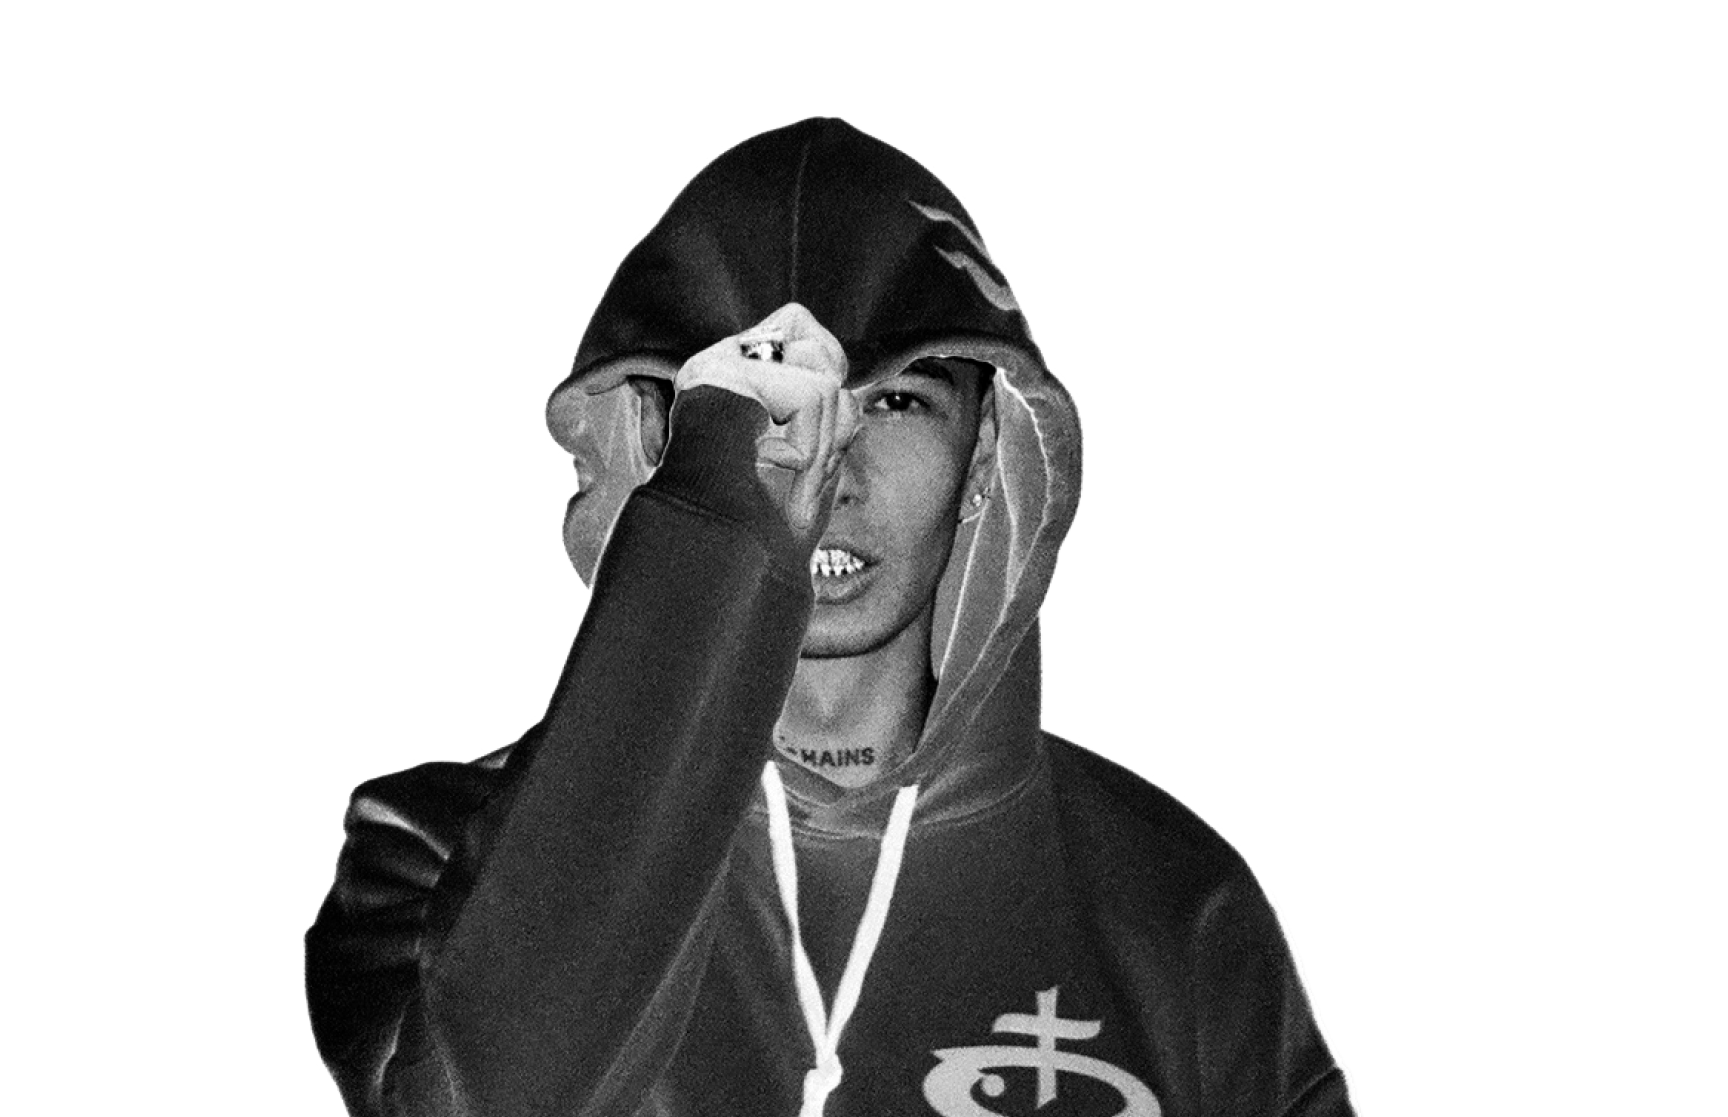
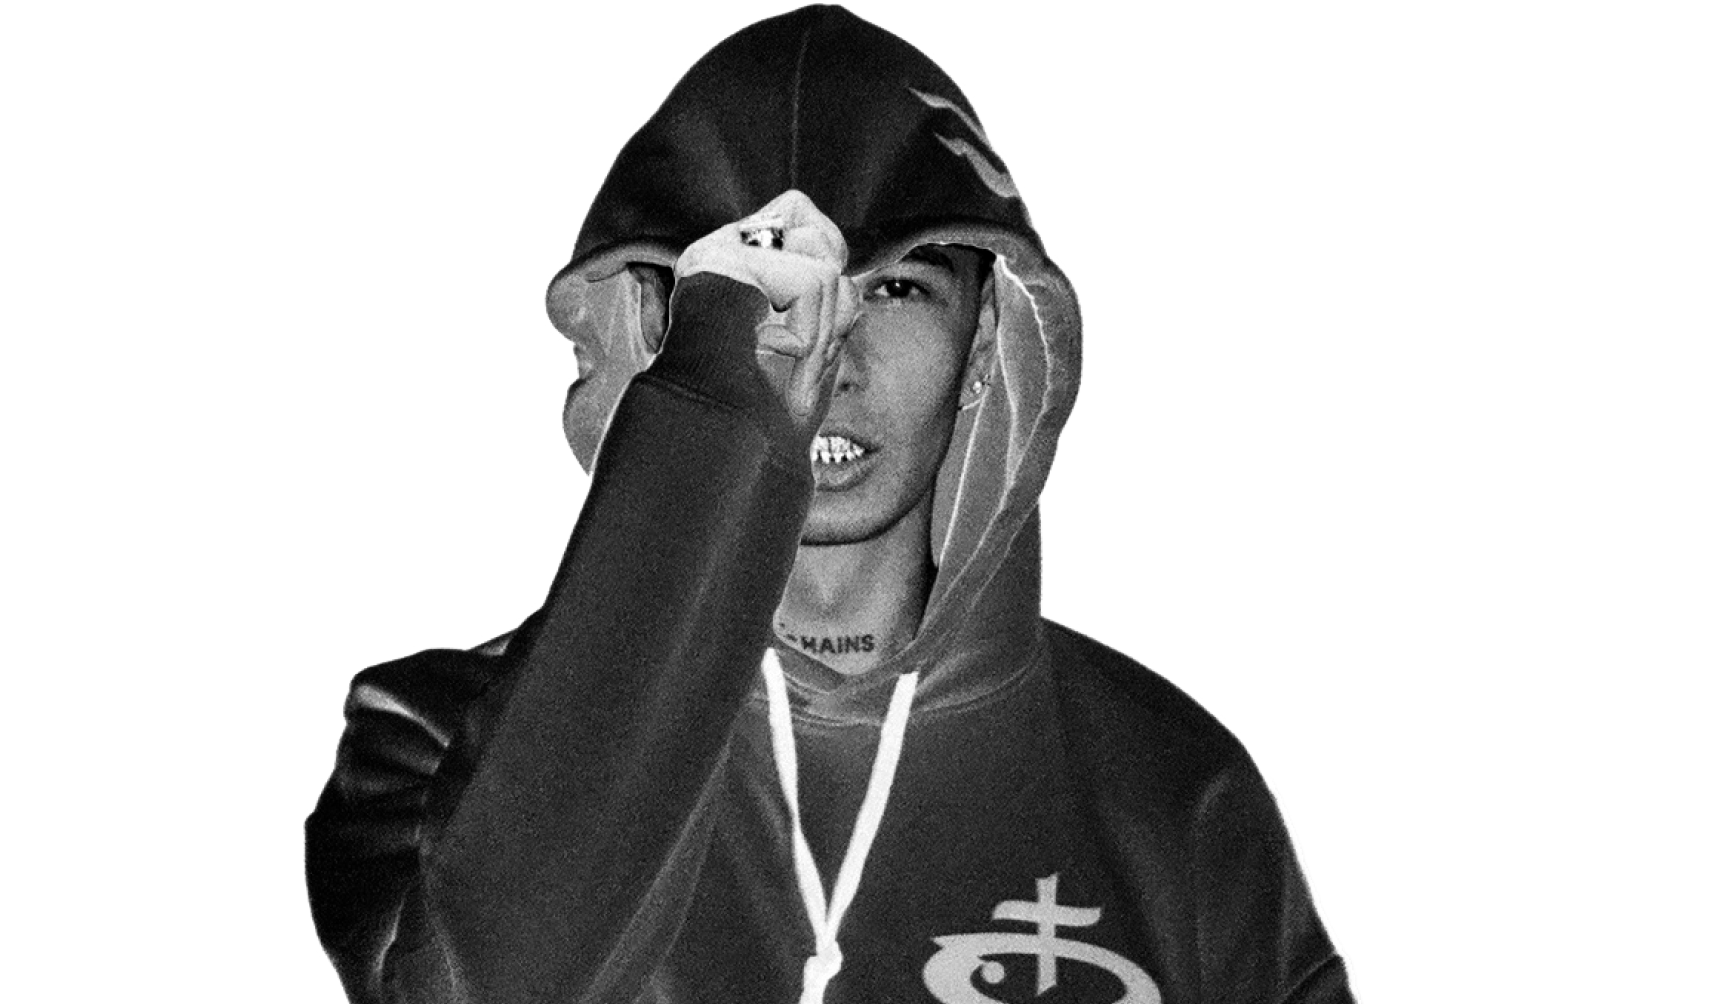
completed adaptive. scroll animation is in developing

diff --git a/index.html b/index.html
@@ -8,24 +8,34 @@
     <link rel="preconnect" href="https://fonts.googleapis.com">
     <link rel="preconnect" href="https://fonts.gstatic.com" crossorigin>
     <link href="https://fonts.googleapis.com/css2?family=Inter&family=Raleway:wght@300;400;500;700&display=swap" rel="stylesheet">
+    <link
+            rel="stylesheet"
+            href="https://cdnjs.cloudflare.com/ajax/libs/animate.css/4.1.1/animate.min.css"
+    />
 </head>
-<body class="Background">
-<section class="Banner Section_FullScreen">
-    <div class="Banner__Heading-Wrapper">
-        <h1 class="Banner__Heading">OBLADAET</h1>
-    </div>
-    <picture class="BannerPicture">
-        <source media="(max-width: 1024px)" srcset="images/Banner__Picture_Device_Mobile.png" type="image/png">
-        <source media="(min-width: 1025px)" srcset="images/Banner__Picture_Device_Desktop.png" type="image/png">
+<body class="Background Background_Unloaded">
+<section class="PreLoader"></section>
+<div class="Content">
+    <section class="Banner">
+        <div class="Banner__Heading-Wrapper">
+            <h1 class="Banner__Heading Banner__Heading_Unloaded">OBLADAET</h1>
+        </div>
+        <picture class="BannerPicture">
+            <source media="(max-width: 1024px)" srcset="images/Banner__Picture_Device_Mobile.png" type="image/png">
+            <source media="(min-width: 1025px)" srcset="images/Banner__Picture_Device_Desktop.png" type="image/png">
 
-        <img class="BannerPicture__Image" src="images/Banner__Picture_Device_Desktop.png" alt="banner">
-    </picture>
-    <picture class="Banner_ScrollIcon">
-        <source media="(max-width: 1024px)" srcset="images/scrollMobile.svg" type="image/png">
-        <source media="(min-width: 1025px)" srcset="images/scrollDesktop.svg" type="image/png">
+            <img class="BannerPicture__Image" src="images/Banner__Picture_Device_Desktop.png" alt="banner">
+        </picture>
+        <picture class="Banner_ScrollIcon">
+            <source media="(max-width: 1024px)" srcset="images/scrollMobile.svg" type="image/png">
+            <source media="(min-width: 1025px)" srcset="images/scrollDesktop.svg" type="image/png">
 
-        <img class="Banner_ScrollIconImage" src="images/scrollMobile.svg" alt="scrollIcon">
-    </picture>
-</section>
+            <img class="Banner_ScrollIconImage" src="images/scrollMobile.svg" alt="scrollIcon">
+        </picture>
+    </section>
+    <section style="height: 1900px;">
+    </section>
+</div>
+<script src="banner/banner.js"></script>
 </body>
 </html>

diff --git a/banner/banner.js b/banner/banner.js
@@ -1,0 +1,72 @@
+
+
+const banner = document.querySelector(".Banner");
+window.addEventListener("scroll", (event)=>{
+
+})
+window.onload = () => {
+    createObserver();
+}
+
+let currentHeightOffset = window.scrollY;
+
+function createObserver(){
+    let observerOptions = {
+        root: null,
+        rootMargin: "0px",
+        threshold: 0,
+    };
+
+    let observer = new IntersectionObserver((entries, observer)=>{
+        entries.forEach(entry => {
+           if(entry.isIntersecting){
+               showContent();
+
+               window.addEventListener("scroll", handleScroll);
+               document.querySelector(".Banner__Heading-Wrapper_Loaded").style.opacity="1";
+           }else
+           {
+               window.removeEventListener("scroll", handleScroll);
+               document.querySelector(".Banner__Heading-Wrapper_Loaded").style.opacity="0";
+           }
+
+        })
+    }, observerOptions);
+
+    observer.observe(banner);
+}
+
+function showContent(){
+    const preLoader = document.querySelector(".PreLoader");
+    preLoader.classList.add("PreLoader_Loaded");
+
+
+    const bannerHeadingWrapper = document.querySelector(".Banner__Heading-Wrapper");
+    bannerHeadingWrapper.classList.add("Banner__Heading-Wrapper_Loaded");
+
+    const bannerHeading = document.querySelector(".Banner__Heading");
+    bannerHeading.classList.remove("Banner__Heading_Unloaded");
+    bannerHeading.classList.add("Banner__Heading_Loaded");
+    bannerHeading.classList.add("animate__fadeInDown");
+    bannerHeading.classList.add("animate__slow");
+
+    const page = document.querySelector(".Background");
+    page.classList.remove("Background_Unloaded");
+}
+
+function handleScroll(){
+
+    banner.innerHeight=0;
+    let bannerHeight = banner.offsetHeight;
+    let viewPortOffset = window.scrollY;
+
+
+        let heightOffset = 5*(viewPortOffset-currentHeightOffset);
+
+        currentHeightOffset = window.scrollY;
+
+        banner.style.height = `${bannerHeight - heightOffset}px`;
+
+
+
+}

diff --git a/banner/banner.css b/banner/banner.css
@@ -1,25 +1,53 @@
 .Banner{
     position: relative;
     overflow: hidden;
+    top:0;
+    height: 100dvh;
+
+    transition: height 50ms ease-in;
 }
 .Banner__Heading{
-    color: var(--Color_Light);
+    color: var(--ColorLight);
     font-family: var(--FontFamily);
     font-size: 164px;
+    line-height: 192px;
     font-weight: 700;
 
     text-align: center;
+
 }
 .Banner__Heading-Wrapper{
-    position: relative;
+    transform: translate(-50%, -50%);
+    position: absolute;
+    top: 50%;
+    left: 50%;
+    z-index: 999;
+}
+.Banner__Heading-Wrapper_Loaded{
+    opacity: 1;
+    transform: translate(-50%);
+    position: fixed;
     top:8px;
     left: 50%;
-    transform: translate(-50%);
-    z-index: 1;
+
+    transition: all ease-in 250ms;
+}
+.Banner__Heading_Unloaded{
+    font-size: 128px;
+    animation: headingLoadingAnimation 1000ms infinite;
+}
+@keyframes headingLoadingAnimation {
+    0%,100%{
+        color: var(--ColorDark);
+    }
+    50%{
+        color: var(--ColorLight);
+    }
 }
 .BannerPicture{
     position: absolute;
     top: 0;
+    transform: translateY(200px);
 
     width: 100%;
     height: 100%;
@@ -32,21 +60,30 @@
 }
 .BannerPicture__Image{
     height: 100%;
+    width: auto;
 }
 .Banner_ScrollIcon{
+    opacity: 1;
     width: 192px;
     height: 192px;
 
     position: absolute;
     bottom:32px;
     right:16px;
+
+    transition: opacity 250ms ease-in;
 }
 .Banner_ScrollIconImage{
     width: 100%;
     height: 100%;
 }
 
-@media screen and (min-width: 512px){
-    .BannerPicture__Image{
+@media screen and (min-width: 1024px){
+    .Banner_ScrollIcon{
+        width: 64px;
+        height: 64px;
+
+        bottom: 64px;
+        right: 64px;
     }
 }

diff --git a/styles.css b/styles.css
@@ -1,6 +1,7 @@
 :root{
     --Background: url("images/BackgroundPattern.png") #27262A;
-    --Color_Light: #F6FBFF;
+    --ColorLight: #F6FBFF;
+    --ColorDark: #27262A;
     --FontFamily: "Raleway";
 }
 *{
@@ -10,8 +11,40 @@
 .Background{
     background: var(--Background);
     background-blend-mode: screen, normal;
-    background-size: 100vh;
+    background-size: 100dvh;
+
 }
-.Section_FullScreen{
+.Background_Unloaded{
     height: 100dvh;
+    overflow: hidden;
+}
+.PreLoader{
+    opacity: 1;
+    overflow: hidden;
+    position: absolute;
+    top: 0;
+    left: 0;
+
+    height: 100%;
+    width: 100%;
+
+    z-index: 998;
+    background: #27262A;
+}
+.PreLoader_Loaded{
+    opacity: 0;
+    display: none;
+    animation: loaderFadeOut 1s ease-out;
+}
+@keyframes loaderFadeOut {
+    from{
+        opacity: 1;
+        display: block;
+    }
+
+    to{
+        opacity: 0;
+        display: none;
+    }
+
 }
